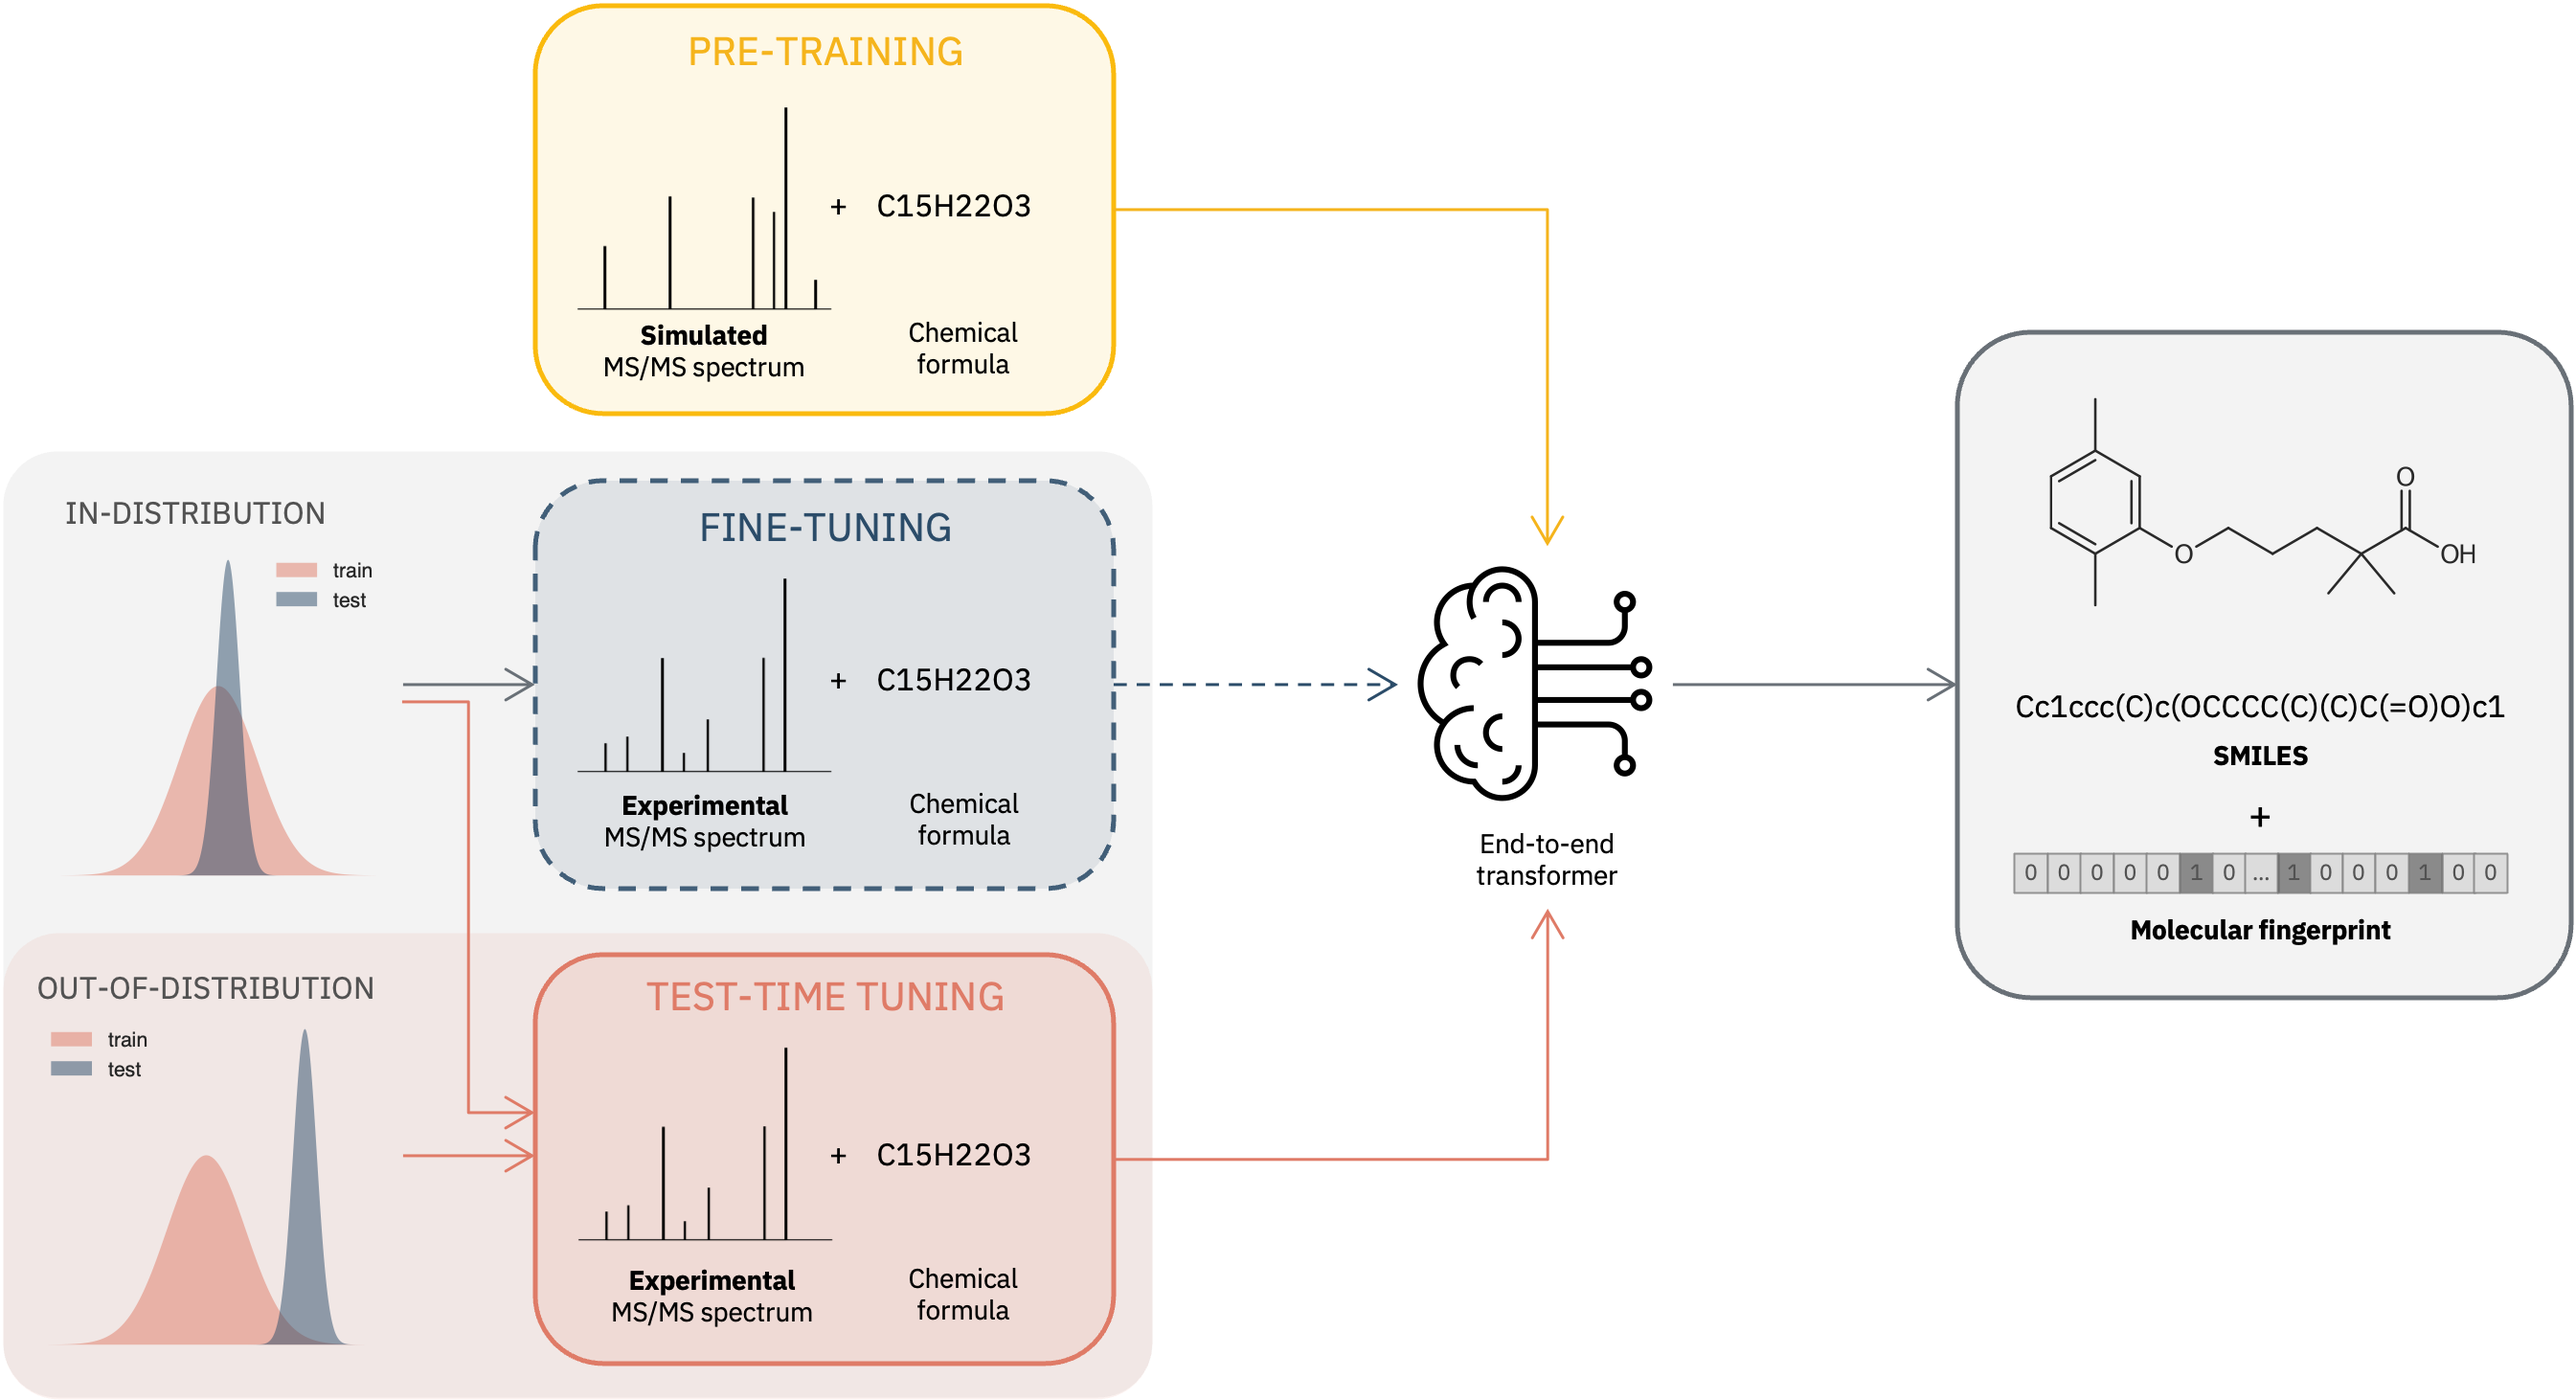
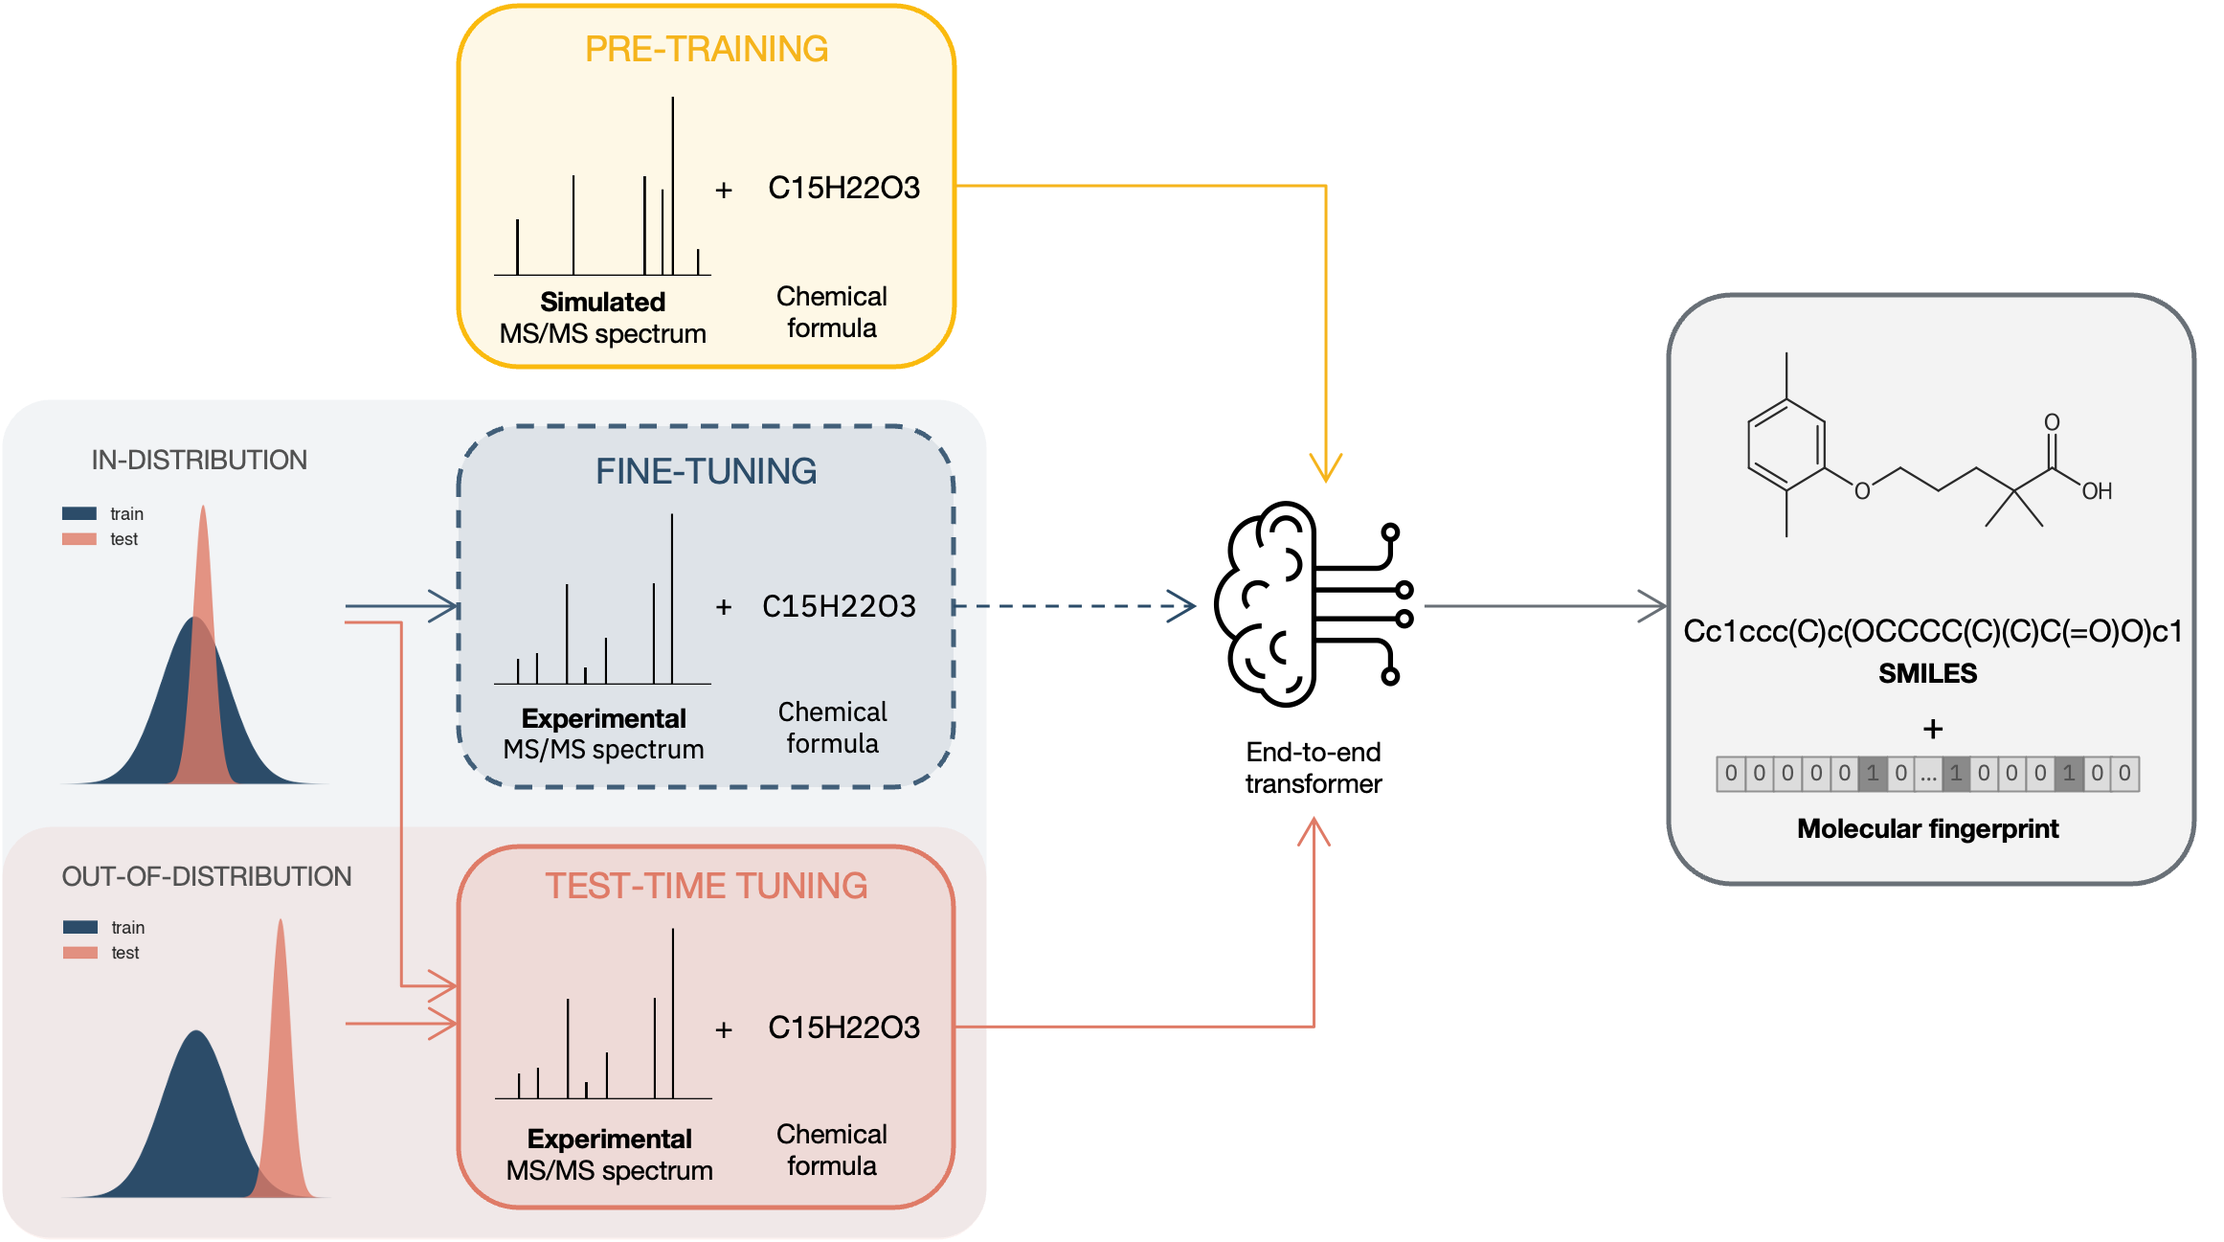
docs: merge replication guide into main README
All commands now run from the repository root (same place the data
notebooks write to). Ignore root data/, checkpoints/ and runs/.

diff --git a/README.md b/README.md
@@ -1,13 +1,16 @@
-# Analytical Foundation Models
+# Test-Time Tuned Language Models for MS/MS Structure Elucidation
 
-This repository contains the official implementation of the results shown in the work "Test-Time Tuned Language Models Enable End-to-end De Novo Molecular Structure Generation from MS/MS Spectra".
+Official implementation of "Test-Time Tuned Language Models Enable End-to-end De Novo Molecular Structure Generation from MS/MS Spectra". The framework is built on PyTorch, PyTorch Lightning and Hugging Face.
 
-It provides the complete codebase needed to reproduce the results and train models on spectra obtained via MS/MS spectroscopy. The framework is built on PyTorch, PyTorch Lightning and Hugging Face. To install it follow the instructions below.
+<p align='center'>
+  <img src='paper_replication/figures/ttt-msms.png'>
+</p>
 
+## Abstract
+Tandem Mass Spectrometry is a cornerstone technique for identifying unknown small molecules in fields such as metabolomics, natural product discovery and environmental analysis. However, certain aspects, such as the probabilistic fragmentation process and size of the chemical space, make structure elucidation from such spectra highly challenging, particularly when there is a shift between the deployment and training conditions. Current methods rely on database matching of previously observed spectra of known molecules and multi-step pipelines that require intermediate fingerprint prediction or expensive fragment annotations. We introduce a novel end-to-end framework based on a transformer model that directly generates molecular structures from an input tandem mass spectrum and its corresponding molecular formula, thereby eliminating the need for manual annotations and intermediate steps, while leveraging transfer learning from simulated data. To further address the challenge of out-of-distribution spectra, we introduce a test-time tuning strategy that dynamically adapts the pre-trained model to novel experimental data. Our approach achieves a Top–1 accuracy of 3.16% on the MassSpecGym benchmark and 12.88% on the NPLIB1 datasets, considerably outperforming conventional fine-tuning. Baseline approaches are also surpassed by 27% and 67% respectively. Even when the exact reference structure is not recovered, the generated candidates are chemically informative, exhibiting high structural plausibility as reflected by strong Tanimoto similarity to the ground truth. Notably, we observe a relative improvement in average Tanimoto similarity of 83% on NPLIB1 and 64% on MassSpecGym compared to state-of-the-art methods. Our framework combines simplicity with adaptability, generating accurate molecular candidates that offer valuable guidance for expert interpretation of unseen spectra.
 
 ## Installation
-To install the code base ensure that you have at least Python 3.10 installed. Then follow the steps below. We recommend using `uv`.
-Typically installation takes less than two minutes.
+Requires Python >= 3.10. We recommend using `uv`; installation typically takes less than two minutes.
 
 ```
 git clone -b ttt-msms https://github.com/rxn4chemistry/MultimodalAnalytical.git
@@ -19,8 +22,77 @@ uv pip install -r requirements.txt   # installs this package in editable mode
 uv pip install -e ".[dev]"          # optional, development tools
 ```
 
-## Usage
-Training and evaluation are run with the command line entry points `analytical_fm.cli.training`, `analytical_fm.cli.training_ttt` (test-time tuning) and `analytical_fm.cli.predict`, configured with [Hydra](https://hydra.cc/) (configs in `configs/`). Ready-to-use scripts for every step of the pipeline and the pre-trained checkpoints ([Hugging Face](https://huggingface.co/laura-mismetti/ttt-msms), [Zenodo](https://zenodo.org/records/22961942)) are described in the replication guide below.
+All commands below are run from the repository root. Training and evaluation use the entry points `analytical_fm.cli.training`, `analytical_fm.cli.training_ttt` (test-time tuning) and `analytical_fm.cli.predict`, configured with [Hydra](https://hydra.cc/) (configs in `configs/`).
 
-## Replication
-Complete instructions for reproducing the results presented are provided in the [paper_replication](paper_replication/msms) folder. It contains step-by-step guidance, including data preparation, model training parameters, and evaluation procedures to replicate our experiments. 
+## Data
+
+| Dataset | Use | Source | Processing notebook | Output |
+|---|---|---|---|---|
+| Simulated | pre-training | [Zenodo](https://zenodo.org/records/14770232) | `paper_replication/msms/data_preparation/preprocessing-sim.ipynb` | `data/sim/` |
+| MassSpecGym (MSG) | adaptation / evaluation | [Hugging Face](https://huggingface.co/datasets/roman-bushuiev/MassSpecGym) | `paper_replication/msms/data_preparation/preprocessing-msg.ipynb` | `data/MSG/` |
+| NPLIB1 | adaptation / evaluation | [here](https://bio.informatik.uni-jena.de/wp-content/uploads/2020/08/svm_training_data.zip) | `paper_replication/msms/data_preparation/processing-nplib1.ipynb` | `data/NPLIB1/NPLIB1-Full/split/` |
+
+The notebooks write to `data/` at the repository root. Each processed dataset is a parquet with the columns `formula`, `smiles`, `spectrum` (list of `[m/z, intensity]`, intensities scaled to 100) and `fingerprint` (128-bit Morgan, radius 2). MSG and NPLIB1 are stored as `train.parquet`, `val.parquet` and `test.parquet`; the NPLIB1 split files are in `paper_replication/msms/data_preparation/nplib1-full_split/`.
+
+In the paper, the pre-training set for each benchmark excludes all molecules of that benchmark's test set (2D InChIKey matching).
+
+## Pre-trained checkpoints
+
+The checkpoints of the paper are available on [Hugging Face](https://huggingface.co/laura-mismetti/ttt-msms) and [Zenodo](https://zenodo.org/records/22961942) (`msg.zip`, `nplib1.zip`). Both have the same layout:
+
+```
+msg/                           nplib1/
+├── preprocessor.pkl           ├── preprocessor.pkl
+├── pt/pt.ckpt                 ├── pt/pt.ckpt
+└── ttt-msg/ttt-msg.ckpt       └── ttt-nplib1/ttt-nplib1.ckpt
+```
+
+`pt` is pre-trained on simulated spectra (test molecules of the benchmark removed), `ttt-*` is `pt` after test-time tuning on the benchmark. Each folder also contains the `config.yaml` used for training. Always use a checkpoint with the `preprocessor.pkl` of the same folder.
+
+Download:
+```
+huggingface-cli download laura-mismetti/ttt-msms --local-dir checkpoints
+# or: unzip msg.zip -d checkpoints && unzip nplib1.zip -d checkpoints
+```
+
+Evaluate a checkpoint on the test set, e.g. `ttt-nplib1`:
+```
+python -m analytical_fm.cli.predict \
+    working_dir=runs/checkpoints job_name=ttt-nplib1 \
+    data_path=data/NPLIB1/NPLIB1-Full/split/ splitting=given_splits \
+    data=msms/text_fingerprint model=custom_model_align \
+    model.model_checkpoint_path=checkpoints/nplib1/ttt-nplib1/ttt-nplib1.ckpt \
+    preprocessor_path=checkpoints/nplib1/preprocessor.pkl \
+    model.guided_generation=False molecules=True
+```
+To run test-time tuning from a released `pt` model, use the same `model.model_checkpoint_path` and `preprocessor_path` overrides with `analytical_fm.cli.training_ttt` (see `paper_replication/msms/scripts/ttt.sh`).
+
+## Training pipeline
+
+The scripts are in `paper_replication/msms/scripts/`. All scripts take `-r runs/<experiment-name>` (run folder) and `-d <data path>`. Use the same `-r` for all steps of an experiment; every step writes to its own subfolder.
+
+| Step | Command | Output |
+|---|---|---|
+| Pre-training | `./paper_replication/msms/scripts/pretraining.sh -r runs/<exp> -d data/sim/` | `runs/<exp>/pt/` |
+| Fine-tuning (from `pt`) | `./paper_replication/msms/scripts/finetuning.sh -r runs/<exp> -d data/MSG/` | `runs/<exp>/ft/` |
+| Test-time tuning (from `pt`) | `./paper_replication/msms/scripts/ttt.sh -r runs/<exp> -d data/NPLIB1/NPLIB1-Full/split/` | `runs/<exp>/ttt/` |
+| From scratch (baseline) | `./paper_replication/msms/scripts/train_from_scratch.sh -r runs/<exp> -d data/MSG/` | `runs/<exp>/from-scratch/` |
+| Evaluation | `./paper_replication/msms/scripts/eval.sh -r runs/<exp>/<pt\|ft\|ttt\|from-scratch> -d data/MSG/` | `runs/<exp>/<step>/eval/` |
+
+Each step saves checkpoints in `version_0/checkpoints/`, and the predictions and Top-k metrics on the test set (`after_training-metrics_beam_*.json`). For evaluation, `-d` can be a folder with `train`/`val`/`test` parquets (only `test` is evaluated) or a single parquet file.
+
+`ttt.sh` contains the NPLIB1 settings. For MSG, use `activeft.n_clusters=500 activeft.update_embeddings=50 model.batch_size=64`.
+
+### Decoding options
+
+- `model.rejection_sampling`: `formula` (default; keep only valid candidates with the target formula), `invalid` (keep only valid SMILES) or `False`.
+- `model.guided_generation`: constrain beam search to the target formula. The paper results use `formula` rejection sampling without guided generation.
+
+### Model w/o fingerprint alignment
+
+To use the simpler model without fingerprint alignment, set:
+
+```
+model=custom_model
+data=msms/text
+```
